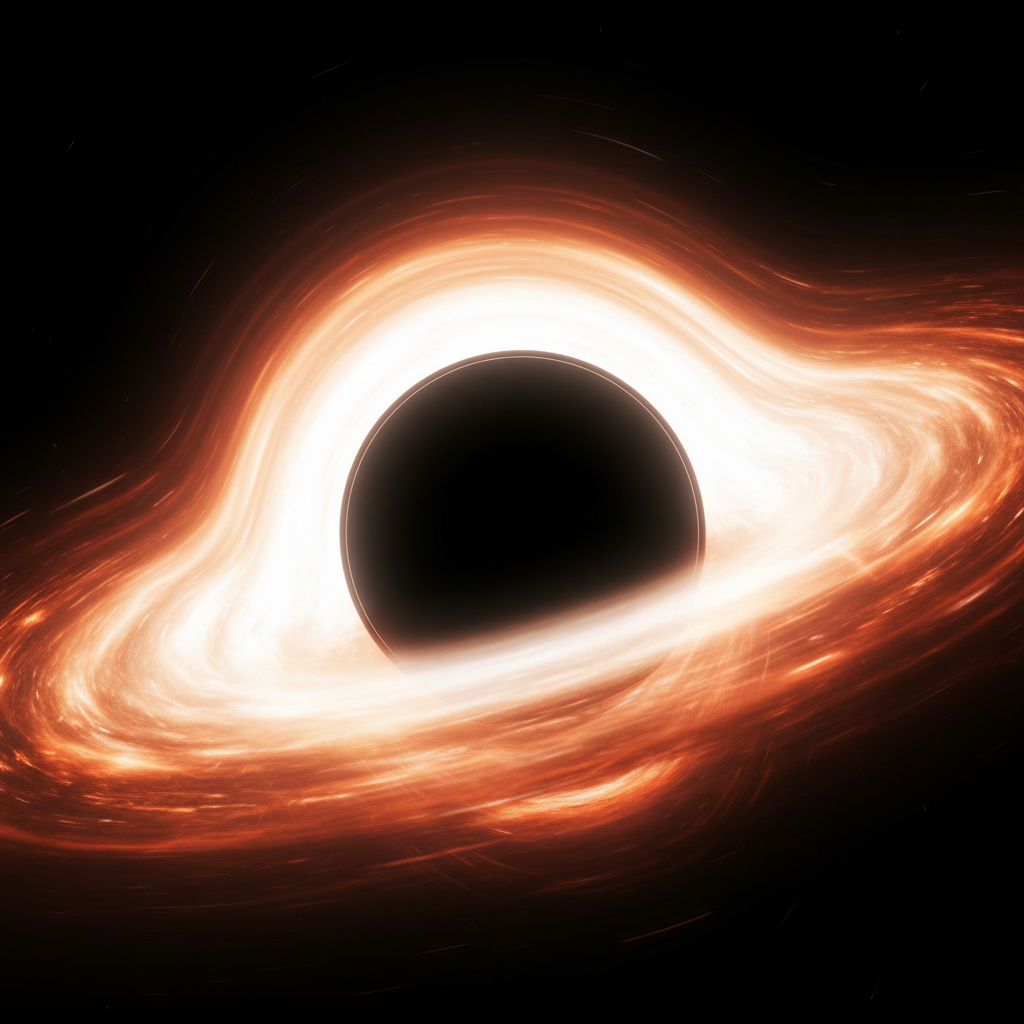
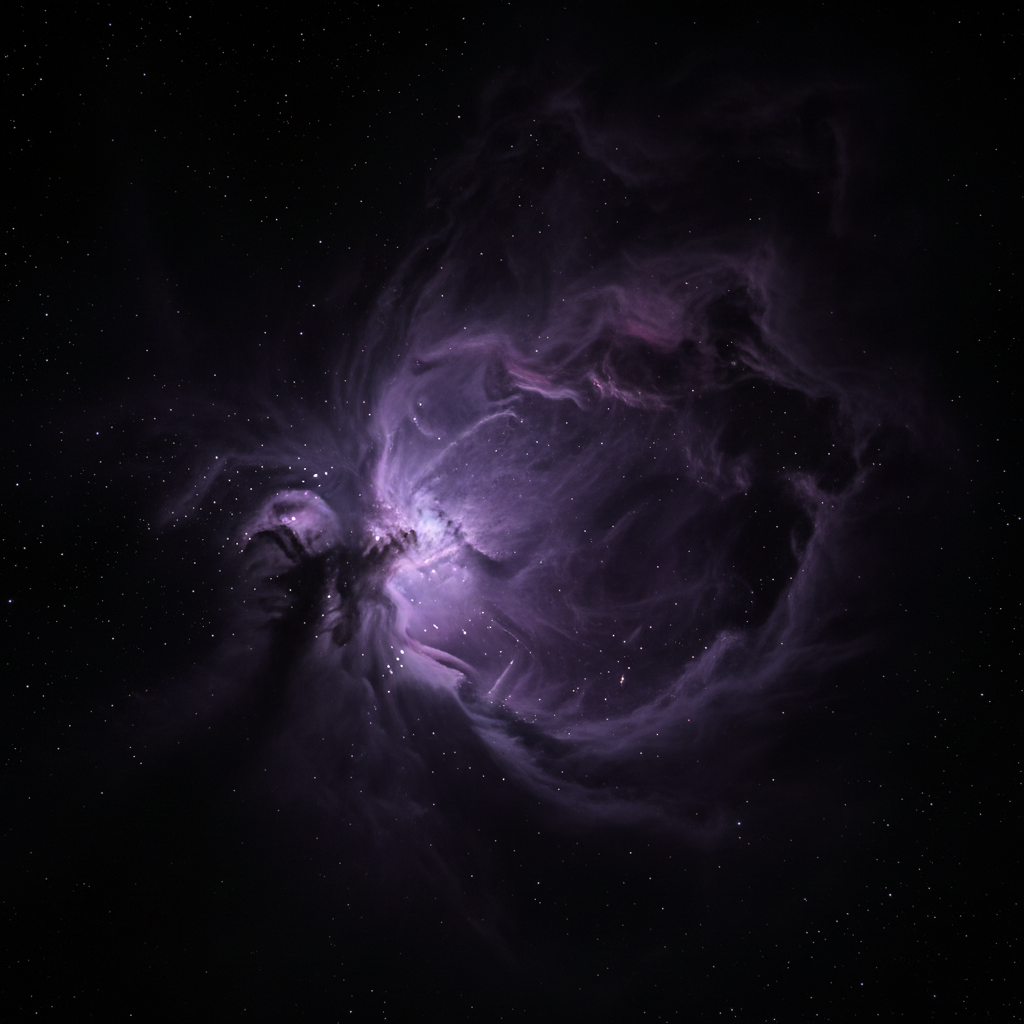
Deck select polish + Void art incorporated
- lore-label text: 11px opacity 0.7 -> 13px bold (matches ability titles)
- Removed redundant ability pills above showcase cards
- Void Hunters: all new tier-structured art approved + deployed
- Art copied to void/ folder for game compatibility

diff --git a/index.html b/index.html
@@ -331,7 +331,7 @@ body {
 .absc-desc  { font-size: 13px; letter-spacing: 0.2px; color: #ffffffdd; line-height: 1.6; }
 
 .lore-divider { height: 1px; flex-shrink: 0; opacity: 0.3; }
-.lore-label { font-size: 11px; letter-spacing: 3px; opacity: 0.7; text-transform: uppercase; margin-bottom: 6px; }
+.lore-label { font-size: 13px; letter-spacing: 3px; font-weight: bold; text-transform: uppercase; margin-bottom: 6px; }
 .lore-text { font-size: 14px; letter-spacing: 0.2px; color: #ffffff; line-height: 1.85; }
 .lore-weakness { font-size: 13px; letter-spacing: 0.2px; color: #ffffffcc; line-height: 1.8; font-style: italic; }
 
@@ -731,7 +731,7 @@ button, [onclick] { touch-action: manipulation; }
           <div class="ds-race-name" id="loreName">—</div>
           <div class="ds-race-sub" id="loreSub">—</div>
           <div class="ds-race-quote" id="loreQuote">—</div>
-          <div class="ds-abilities-row" id="loreAbilities"></div>
+          
         </div>
 
         <!-- RIGHT: Tier card previews -->
@@ -1189,11 +1189,6 @@ function selectRace(race, tileEl) {
     document.getElementById('loreLabel3').style.color = race.color;
     document.getElementById('loreDivider').style.background =
       `linear-gradient(90deg, ${race.color}, transparent)`;
-
-    const ab = document.getElementById('loreAbilities');
-    ab.innerHTML = race.abilities.map(a =>
-      `<span class="ability-pill" style="color:${race.color};border-color:${race.color}44">${a}</span>`
-    ).join('');
 
     // Ability showcase cards — show ALL abilities
     const ac = document.getElementById('abilityCards');
